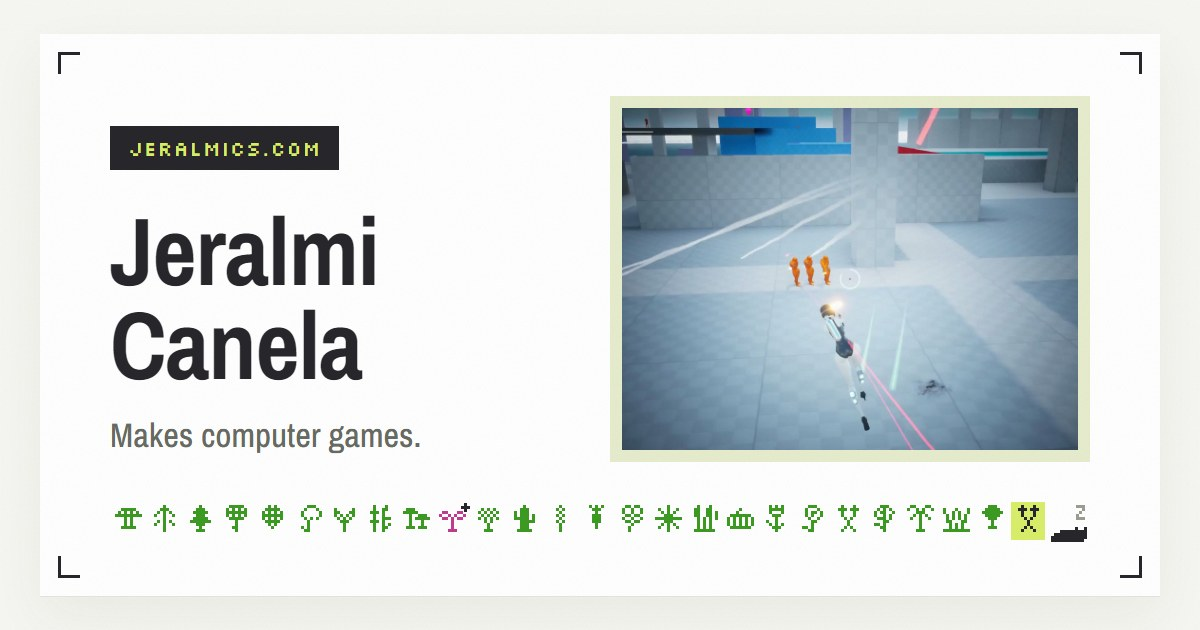
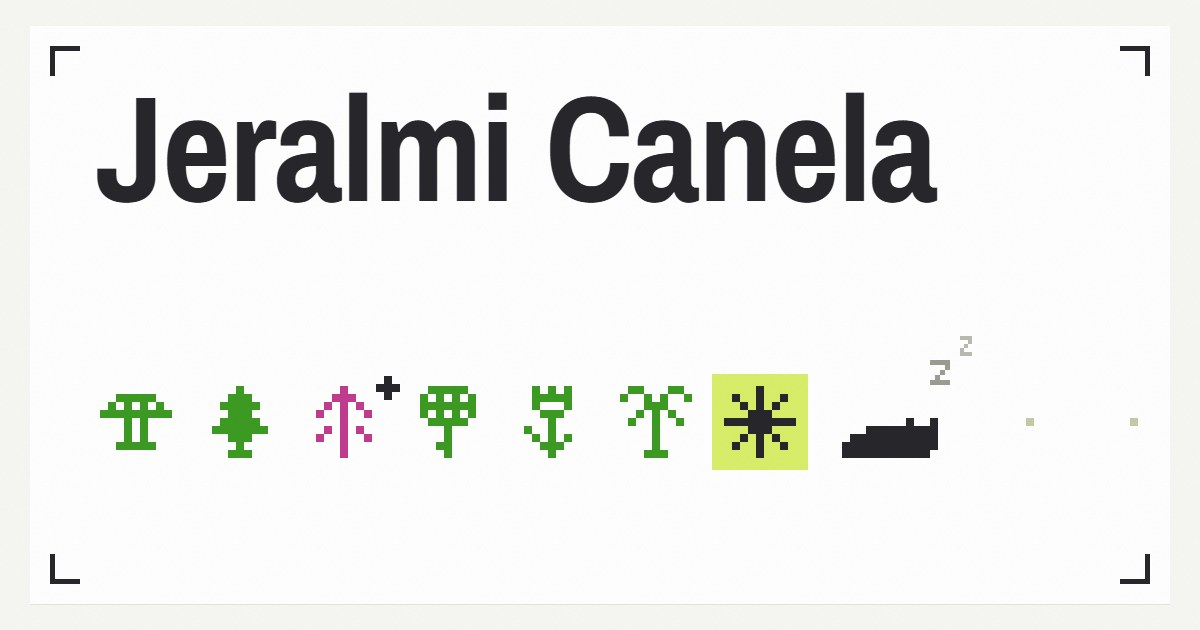
Bigger link preview; garden wording
The link preview is now the name, very large, over one big row of
garden plants with today's lime square and the cat asleep: it reads at
iMessage size, where the old card was too small. The garden says
"282 days, 83 to go" and "One item for every day of 2026 so far".

diff --git a/index.html b/index.html
@@ -19,7 +19,7 @@
 <meta property="og:image" content="https://jeralmics.com/assets/img/og-card.jpg">
 <meta property="og:image:width" content="1200">
 <meta property="og:image:height" content="630">
-<meta property="og:image:alt" content="Jeralmi Canela. Makes computer games. A gameplay frame from Something New and a row of pixel plants.">
+<meta property="og:image:alt" content="Jeralmi Canela, over a row of pixel plants: one magenta, today in lime, and a cat asleep.">
 <meta name="twitter:card" content="summary_large_image">
 <meta name="twitter:site" content="@Jeralmics">
 <meta name="twitter:creator" content="@Jeralmics">
@@ -388,7 +388,7 @@
   </div>
   <div class="garden-wrap">
     <div class="yhead"><span class="year" id="year">2026</span><span class="count" id="count"></span></div>
-    <div class="yday" id="yday" aria-live="polite">One plant for every day of 2026 so far</div>
+    <div class="yday" id="yday" aria-live="polite">One item for every day of 2026 so far</div>
     <div class="ykey" aria-hidden="true"><span><i class="sw mag"></i>Shipped</span><span><i class="sw today"></i>Today</span></div>
     <ul class="sr-only" id="markslist" aria-label="Things I shipped this year"></ul>
     <canvas id="garden" aria-label="a garden of the year: a small plant for each day so far, a dot for each day to come"></canvas>
@@ -825,7 +825,7 @@ function YearGarden(o) {
   var days = Math.round((new Date(Y + 1, 0, 1) - new Date(Y, 0, 1)) / 864e5);
   var today = Math.round((new Date(Y, now.getMonth(), now.getDate()) - new Date(Y, 0, 1)) / 864e5);
   if (o.yearEl) o.yearEl.textContent = Y;
-  if (o.countEl) o.countEl.innerHTML = '<b>' + (today + 1) + '</b> grown, ' + (days - today - 1) + ' to go';
+  if (o.countEl) o.countEl.innerHTML = '<b>' + (today + 1) + '</b> days, ' + (days - today - 1) + ' to go';
   var icon = []; for (var d = 0; d < days; d++) icon.push(Math.floor(rng(Y * 1000 + d)() * ICONS.length));
 
   /* special days: o.marks = [{ date: 'YYYY-MM-DD', title, text?, link?, linkText? }]. a grown plant on that day is drawn
@@ -1275,7 +1275,7 @@ function YearGarden(o) {
   function say(d) {
     if (!o.dayEl) return;
     if (d === 'cat') { o.dayEl.innerHTML = '<b>The cat</b>, ' + (cat.mode === 'sleep' ? (home > today ? 'asleep where tomorrow will grow' : 'asleep') : 'out for a walk'); return; }
-    if (d < 0) { o.dayEl.textContent = 'One plant for every day of ' + Y + ' so far'; return; }
+    if (d < 0) { o.dayEl.textContent = 'One item for every day of ' + Y + ' so far'; return; }
     var mouse = lastPointer === 'mouse', ghost = planted[d] != null && d !== home;
     var later = d > today ? (mouse ? (ghost ? ', still to grow · a ghost you planted, click to clear it' : ', still to grow' + (d !== home ? ' · click or drag to plant' : ''))
       : (ghost ? ' · your ghost · tap to clear' : d !== home ? ' · tap or swipe to plant' : ', still to grow')) : '';
